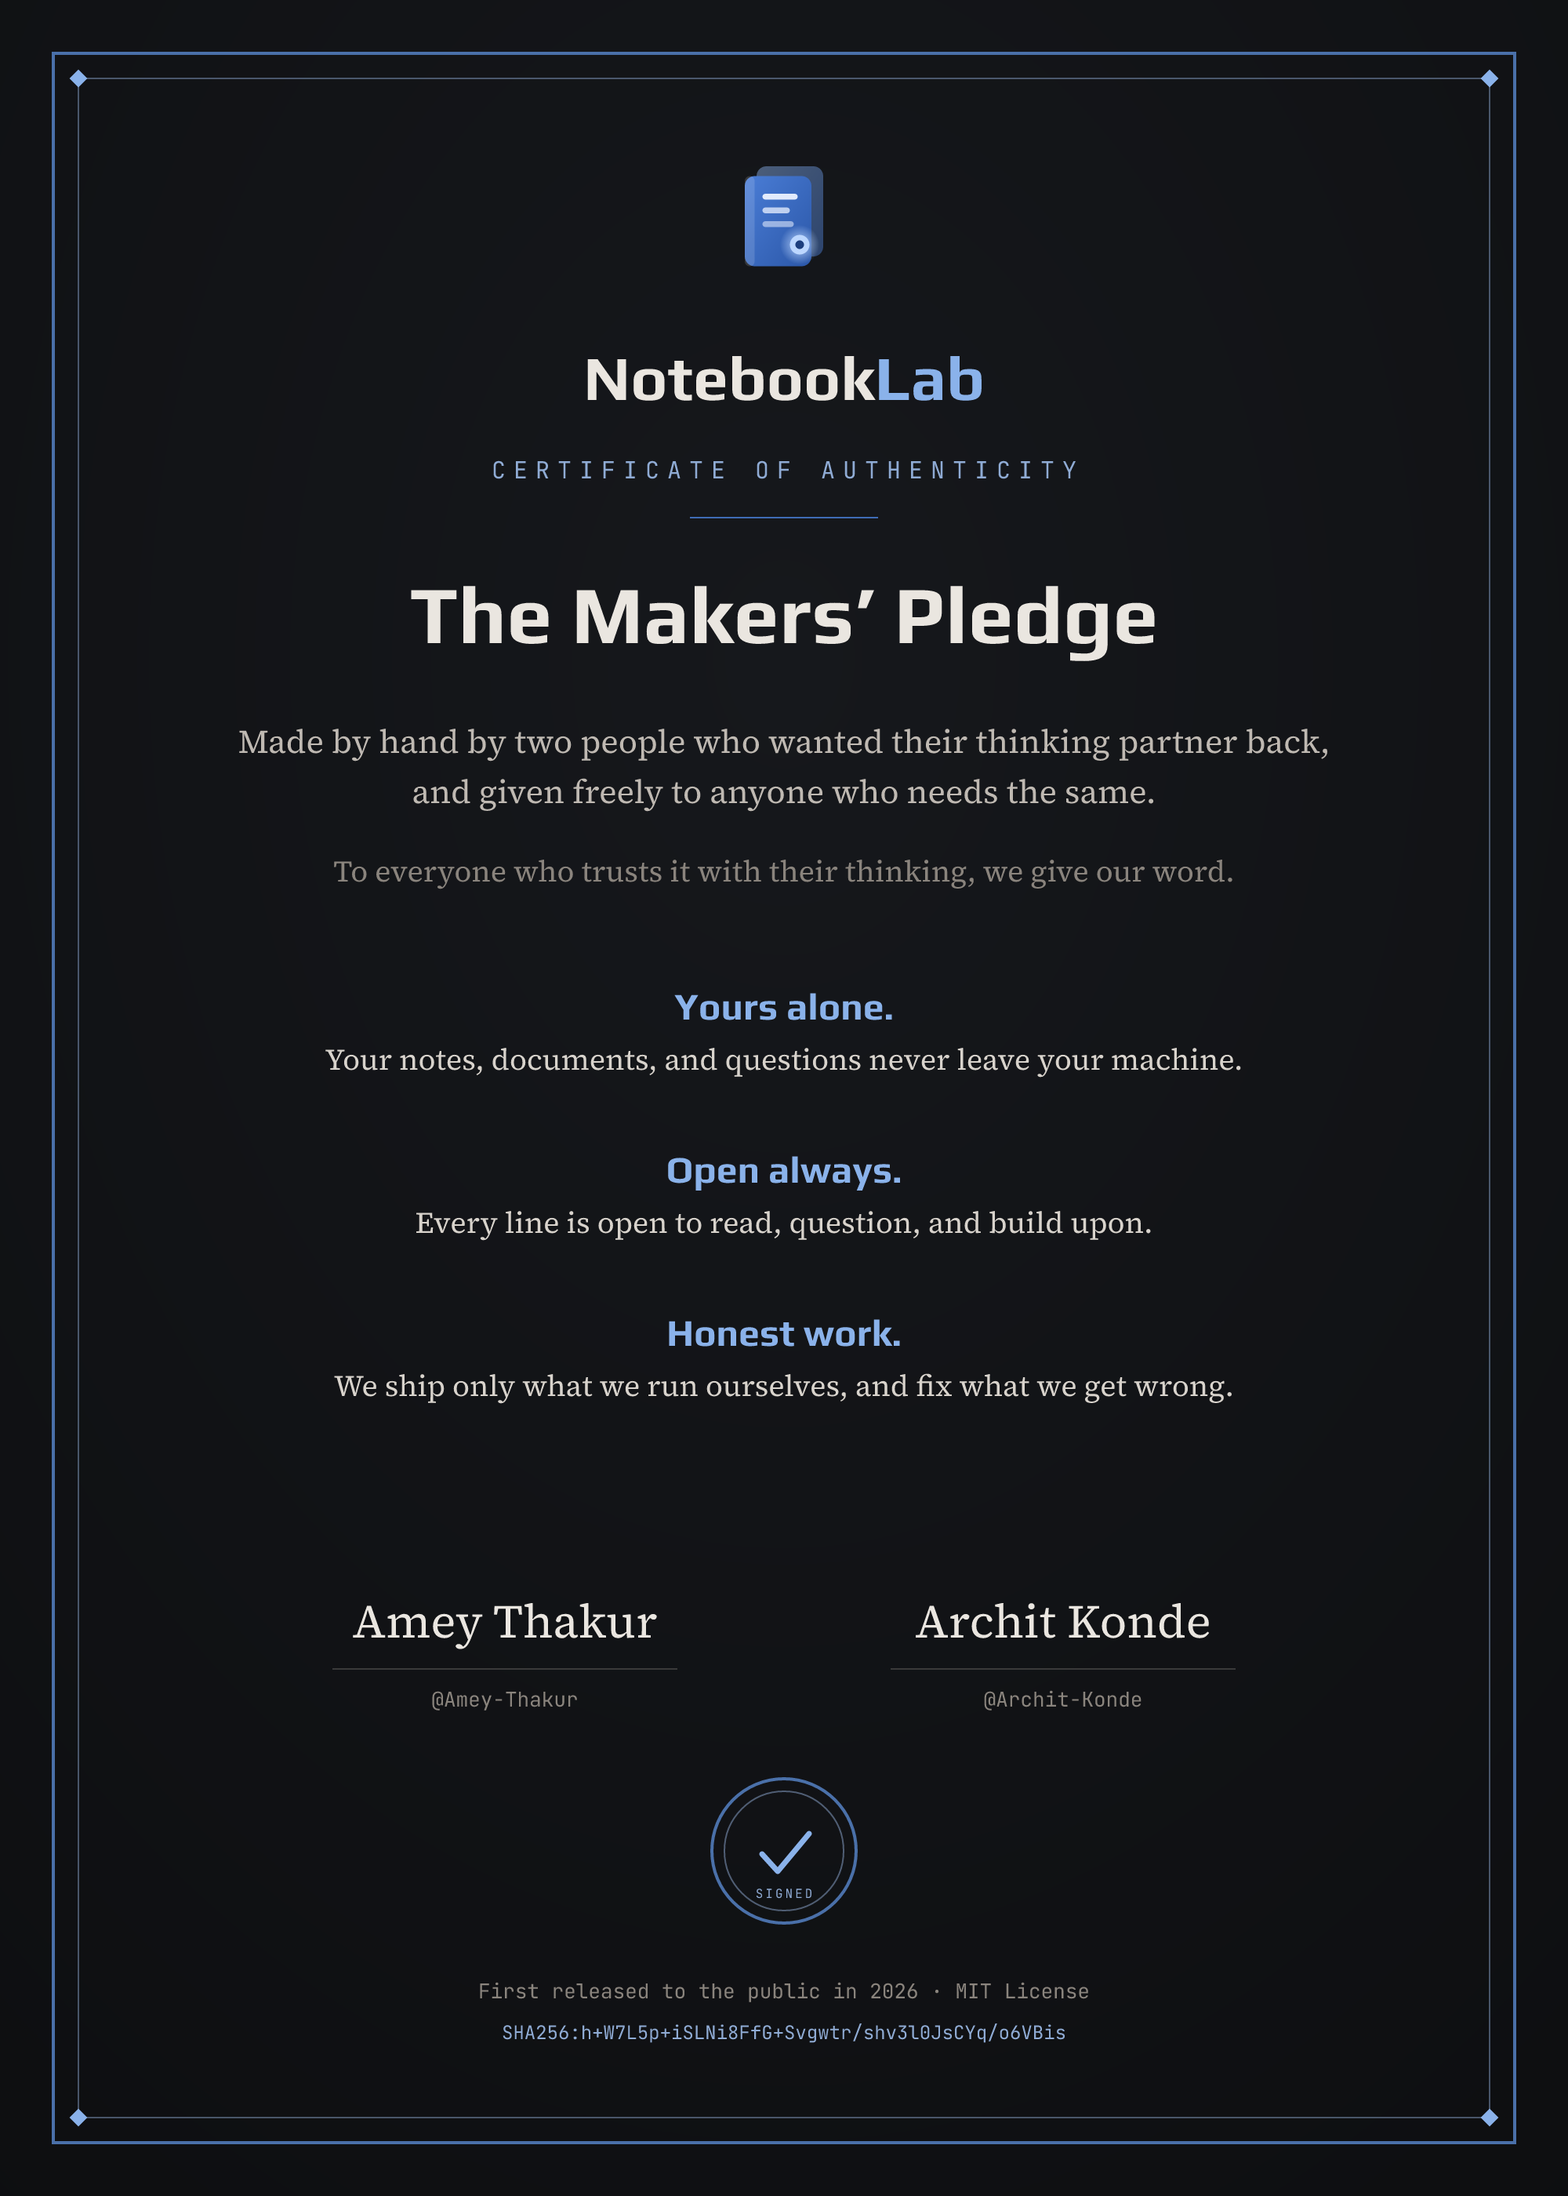
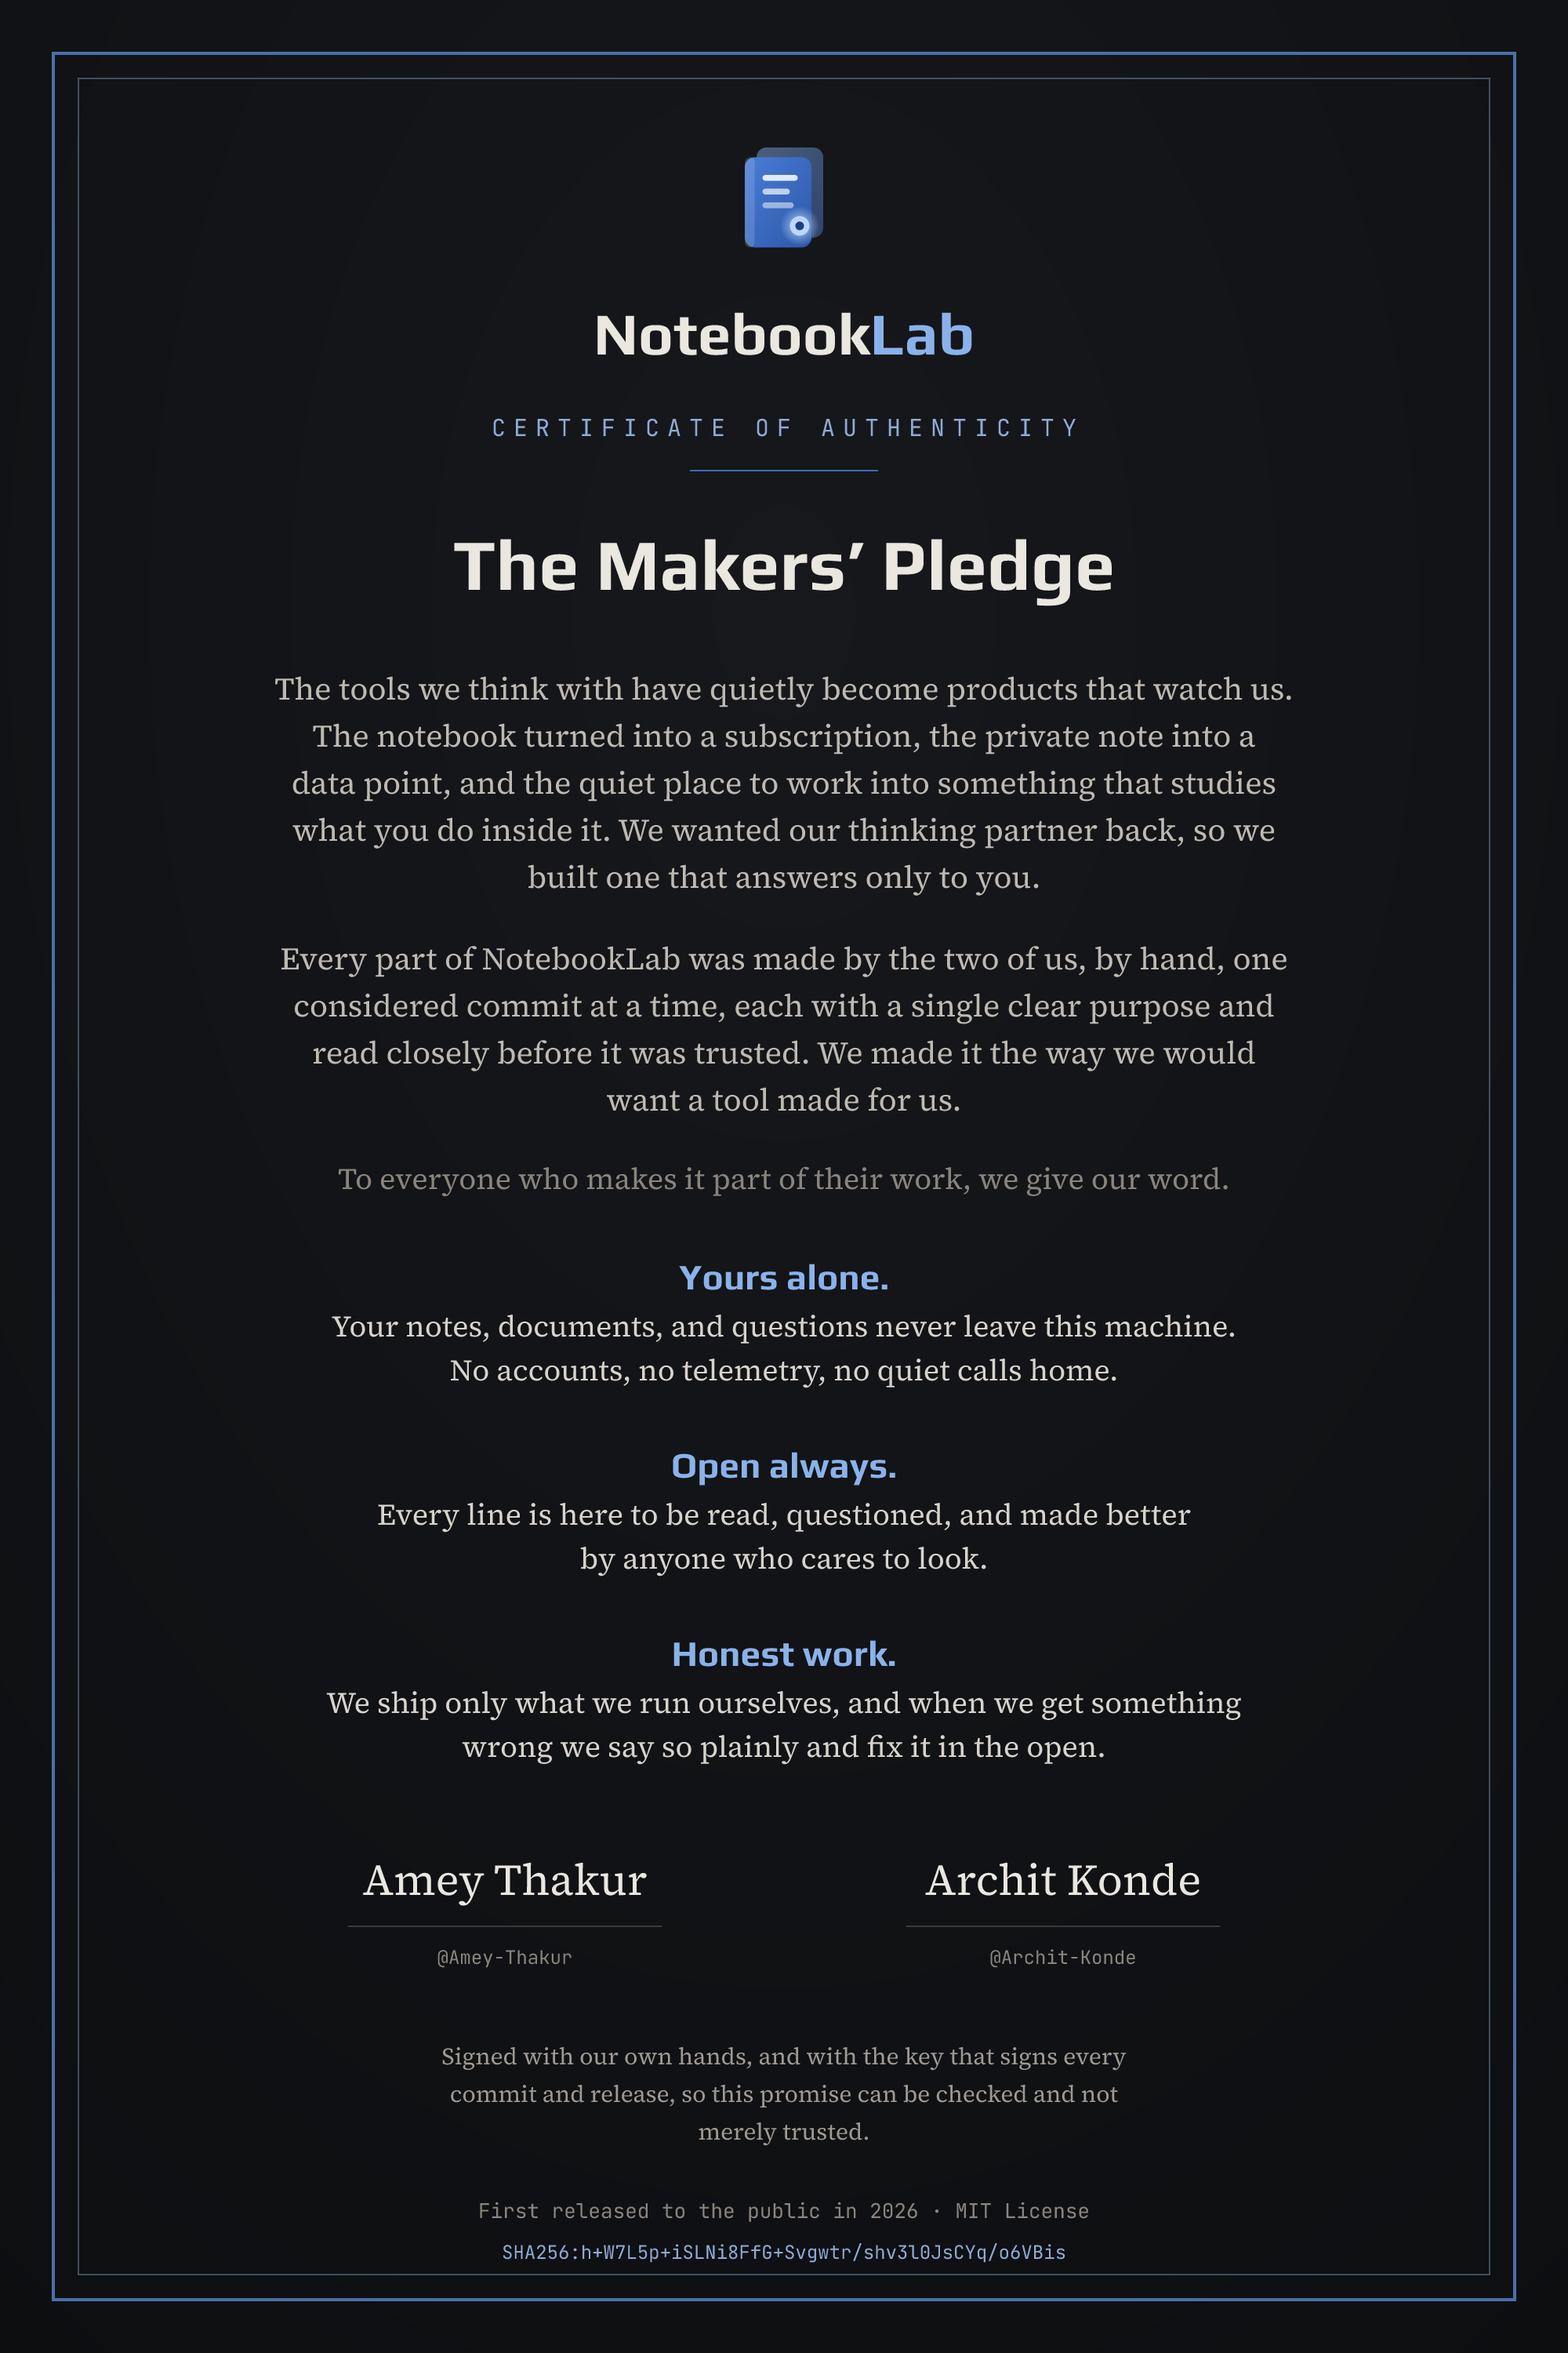
Pledge matches everywhere
* Full pledge text on the website
* Certificate picture matches the app
* Same words in app, site, and download

diff --git a/site/index.html b/site/index.html
@@ -169,9 +169,11 @@
     .pledge-card{max-width:660px;margin:0 auto;border:1px solid var(--accent);border-radius:var(--r);padding:6px}
     .pledge-inner{border:1px solid var(--border);border-radius:calc(var(--r) - 2px);padding:52px 44px;background:var(--card)}
     .pledge-eyebrow{font-family:'JetBrains Mono',monospace;font-size:11px;letter-spacing:3px;text-transform:uppercase;color:var(--accent-light)}
-    .pledge-title{font-size:30px;font-weight:700;color:var(--text);margin:14px 0 22px}
-    .pledge-intro{font-family:'Source Serif 4',serif;font-size:16px;line-height:1.6;color:var(--dim);max-width:460px;margin:0 auto 30px}
-    .pledge-promise{margin:18px 0}
+    .pledge-title{font-size:30px;font-weight:700;color:var(--text);margin:14px 0 26px}
+    .pledge-intro{font-family:'Source Serif 4',serif;font-size:16px;line-height:1.6;color:var(--dim);max-width:500px;margin:0 auto 18px}
+    .pledge-word{font-family:'Source Serif 4',serif;font-size:15px;color:var(--muted);max-width:480px;margin:8px auto 28px}
+    .pledge-signed{font-family:'Source Serif 4',serif;font-size:13px;line-height:1.6;color:var(--dim);max-width:440px;margin:30px auto 0}
+    .pledge-promise{margin:20px 0}
     .pledge-promise b{display:block;font-family:'Play',sans-serif;font-size:17px;color:var(--accent-light);margin-bottom:4px}
     .pledge-promise span{font-family:'Source Serif 4',serif;font-size:15px;color:var(--text)}
     .pledge-sign{display:flex;flex-wrap:wrap;justify-content:center;gap:20px 56px;margin:36px 0 4px}
@@ -409,21 +411,28 @@
         <p class="pledge-eyebrow">Certificate of Authenticity</p>
         <h2 class="pledge-title">The Makers&rsquo; Pledge</h2>
         <p class="pledge-intro">
-          Made by hand by two people who wanted their thinking partner back, and given
-          freely to anyone who needs the same. To everyone who trusts it with their
-          thinking, we give our word.
+          The tools we think with have quietly become products that watch us. The
+          notebook turned into a subscription, the private note into a data point, and
+          the quiet place to work into something that studies what you do inside it. We
+          wanted our thinking partner back, so we built one that answers only to you.
         </p>
+        <p class="pledge-intro">
+          Every part of NotebookLab was made by the two of us, by hand, one considered
+          commit at a time, each with a single clear purpose and read closely before it
+          was trusted. We made it the way we would want a tool made for us.
+        </p>
+        <p class="pledge-word">To everyone who makes it part of their work, we give our word.</p>
         <div class="pledge-promise">
           <b>Yours alone.</b>
-          <span>Your notes, documents, and questions never leave your machine.</span>
+          <span>Your notes, documents, and questions never leave this machine. No accounts, no telemetry, no quiet calls home.</span>
         </div>
         <div class="pledge-promise">
           <b>Open always.</b>
-          <span>Every line is open to read, question, and build upon.</span>
+          <span>Every line is here to be read, questioned, and made better by anyone who cares to look.</span>
         </div>
         <div class="pledge-promise">
           <b>Honest work.</b>
-          <span>We ship only what we run ourselves, and fix what we get wrong.</span>
+          <span>We ship only what we run ourselves, and when we get something wrong we say so plainly and fix it in the open.</span>
         </div>
         <div class="pledge-sign">
           <div>
@@ -435,6 +444,7 @@
             <div class="h">@Archit-Konde</div>
           </div>
         </div>
+        <p class="pledge-signed">Signed with our own hands, and with the key that signs every commit and release, so this promise can be checked and not merely trusted.</p>
         <p class="pledge-meta">First released to the public in 2026 &middot; MIT License</p>
         <p class="pledge-key">SHA256:h+W7L5p+iSLNi8FfG+Svgwtr/shv3l0JsCYq/o6VBis</p>
         <a class="pledge-dl" href="makers-pledge.png" download="NotebookLab-Makers-Pledge.png">Download the certificate</a>
